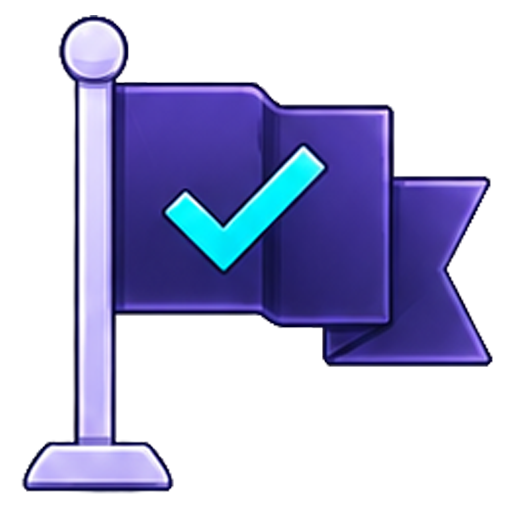
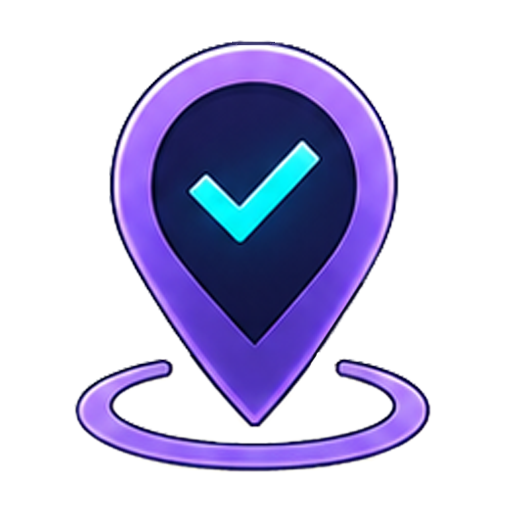
x

diff --git a/index.html b/index.html
@@ -2247,6 +2247,9 @@ body.dragging *{cursor:grabbing !important}
 .qi-daily{background-image:url('assets/ui/daily.png')}
 .qi-shop{background-image:url('assets/ui/shop.png')}
 .qi-settings{background-image:url('assets/ui/settings.png')}
+/* [TILLAGT v5.210.0] Expeditionsknappen lanade ikonen fran dagsbelöningarna -
+   samma present pa tva knappar som gor helt olika saker. Nu en egen. */
+.qi-expeditions{background-image:url('assets/ui/expeditions.png')}
 /* I snabbknapparna och emblemen får de ta mer plats än en textrad. */
 .qa-btn .ico .qi{width:33px;height:33px}
 .nav-btn .ico .qi{width:25px;height:25px}
@@ -2728,9 +2731,9 @@ body.modal-open{overflow:hidden;position:fixed;left:0;right:0;width:100%}
    blir bildens 100 % noll. Faller filen bort star emojin kvar oforandrad. */
 .rw-hex.art-wrap .art-img{width:30px;height:30px}
 .rw-hex.art-wrap.noart{font-size:22px}
-.rc-ico.art-wrap{width:16px;height:16px;display:inline-flex;align-items:center;justify-content:center;flex:0 0 auto}
-.rc-ico.art-wrap .art-img{width:16px;height:16px}
-.rc-ico.art-wrap.noart{width:auto;height:auto;font-size:14px}
+.rc-ico.art-wrap{width:20px;height:20px;display:inline-flex;align-items:center;justify-content:center;flex:0 0 auto}
+.rc-ico.art-wrap .art-img{width:20px;height:20px}
+.rc-ico.art-wrap.noart{width:auto;height:auto;font-size:18px}
 .rw-divider{
   display:flex;align-items:center;gap:10px;margin-bottom:10px;
   font-size:8px;letter-spacing:.2em;text-transform:uppercase;color:var(--text-dim);font-weight:700;
@@ -2788,7 +2791,11 @@ body.modal-open{overflow:hidden;position:fixed;left:0;right:0;width:100%}
   display:flex;align-items:center;gap:8px;
   border:1px solid var(--border-soft);border-radius:10px;padding:8px 10px;background:var(--bg-inset);
 }
-.rc-ico{font-size:14px}
+/* [ANDRAT v5.212.0] De tva ikonerna i sammanfattningen 25 % storre (Chris).
+   Chippet vaxer INTE: raden bredvid - etiketten plus talet - ar hogre an
+   ikonen bade forut och nu, sa det ar texten som satter hojden. Bade bilden
+   och emojin vaxer, annars hade det bara sett storre ut nar filerna finns. */
+.rc-ico{font-size:18px;line-height:1}
 .rc-body{display:flex;flex-direction:column;min-width:0}
 .rc-k{font-size:8px;letter-spacing:.1em;text-transform:uppercase;color:var(--text-dim);font-weight:700}
 .rc-v{font-family:var(--font-mono);font-size:12px;font-weight:800}
@@ -6118,7 +6125,7 @@ button:active:not(:disabled), .zx-btn:active:not(:disabled),
           <span id="save-status">Not saved yet</span>
         </div>
         <span id="next-save" style="display:none">0:10</span>
-        <div class="sn-ver">GENESIS v5.208.0 — HJALPAREN VISAS NAR CACHEN OPPNAS, WORK SYNC LAGAD</div>
+        <div class="sn-ver">GENESIS v5.212.0 — SAMMANFATTNINGENS TVA IKONER 25 PROCENT STORRE</div>
       </div>
     </div>
   </aside>
@@ -6239,7 +6246,7 @@ button:active:not(:disabled), .zx-btn:active:not(:disabled),
                  ocksa i vanstersp alten, men det ar den man oftast vill at
                  direkt nar nagot landat dar. Tio knappar fyller tva hela rader
                  pa fem kolumner - ingen ensam knapp pa en tredje rad. -->
-            <div class="qa-btn" id="qa-expeditions"><span class="ico"><span class="qi qi-daily"></span></span><span class="lbl">Expeditions</span><span class="notif" id="qa-exped-badge" style="display:none">0</span></div>
+            <div class="qa-btn" id="qa-expeditions"><span class="ico"><span class="qi qi-expeditions"></span></span><span class="lbl">Expeditions</span><span class="notif" id="qa-exped-badge" style="display:none">0</span></div>
             <div class="qa-btn" id="qa-inbox"><span class="ico"><span class="qi qi-inbox"></span></span><span class="lbl">Inbox</span><span class="notif" id="qa-mail-badge" style="display:none">0</span></div>
           </div>
         </div>
@@ -6917,7 +6924,7 @@ button:active:not(:disabled), .zx-btn:active:not(:disabled),
   <div class="modal-overlay" id="hrev-overlay">
     <div class="modal hrev-modal">
       <button class="modal-close hrev-x" id="hrev-close">✕</button>
-      <div class="hrev-kicker">Helper Cache</div>
+      <div class="hrev-kicker" id="hrev-kicker">Helper Cache</div>
       <div class="hrev-stage">
         <span class="hrev-flare"></span>
         <span class="hrev-flare2"></span>
@@ -7080,7 +7087,7 @@ button:active:not(:disabled), .zx-btn:active:not(:disabled),
         <div class="settings-row" data-setgrp="other">
           <div>
             <div>Version</div>
-            <div class="desc">GENESIS v5.208.0 — HJALPAREN VISAS NAR CACHEN OPPNAS, WORK SYNC LAGAD</div>
+            <div class="desc">GENESIS v5.212.0 — SAMMANFATTNINGENS TVA IKONER 25 PROCENT STORRE</div>
           </div>
         </div>
       </div>
@@ -12584,12 +12591,11 @@ const FAM_TEXT = {
   fuel:      v => '+' + v + '% fuel regen',
   cacheluck: v => '+' + v + '% cache odds',
   gearrar:   v => '+' + v + '% rarer gear drops',
-  /* [TILLAGT v5.208.0] WORK SYNC SAKNADES HELT. Servern rullar atta formagor;
-     den har raden fanns inte, sa uppslaget gav undefined och ANROPET av det
-     kastade ett fel mitt i hovringsrutan. Foljden: en hjalpare med just den
-     formagan hade varken hovringskort eller kort vid klick - resten fungerade.
-     Samma buggfamilj som en gang gjorde att INGET husdjur gick att hovra. */
-  worksync:  v => '+' + v + '% profession work speed',
+  /* [BORTTAGET v5.211.0] WORK SYNC. Den rullades ut av servern men lastes av
+     ingen enda funktion - ett tal pa kortet som inte gjorde nagonting. Chris
+     beslut: strycken ur rullningen, och de fyra som bar den rullades om. Raden
+     har ar borta i samma veva sa klienten inte kan lova nagot servern inte har.
+     Vakten i uppslaget star kvar: en okand formaga far aldrig doda kortet. */
   tokens:    v => '+' + v + '% Tokens on reboot'
 
 };
@@ -18343,16 +18349,15 @@ const HELPER_ABILITIES = {
   sellvalue: {name:'Haggler',        text: v => '+' + v + '% sell value'},
   cacheluck: {name:'Cache Instinct', text: v => '+' + v + '% cache odds'},
   gearrar:   {name:'Prospector',     text: v => '+' + v + '% rarer gear drops'},
-  /* [ANDRAT v5.6.0] Hette 'tokens' / Echo Reader och gav extra Tokens vid en
-     omstart - bada ar rivna. Servern dopte om den till Work Sync och skrev om
-     husdjurens formaga i samma andetag. FILEN GJORDE INTE DET, sa ett husdjur
-     med den nya formagan slog upp ingenting har och punkten efter kastade hela
-     sidan. Klient och server sa olika saker om samma nyckel. */
-  worksync:  {name:'Work Sync',      text: v => '+' + v + '% profession work speed'},
   /* Utgangna, men texten star kvar. En hjalpare fran en gammal sparfil - eller
      ett kort som ritas ur en cache - far annars slå upp ingenting, och punkten
      efter kastar hela sidan. Det har hant en gang. De rullas aldrig pa nytt:
-     poolen ligger pa servern och de ar borta darifran. */
+     poolen ligger pa servern och de ar borta darifran.
+     [TILLAGT v5.211.0] Work Sync hor nu hit. Den rullades ut av servern men
+     lastes av ingen funktion - ett tal som inte gjorde nagonting. Struken ur
+     rullningen pa Chris beslut, och de fyra som bar den rullades om. Texten
+     star kvar av samma skal som de tva under: den far inte fattas nagonstans. */
+  worksync:  {name:'Work Sync',      text: v => '+' + v + '% profession work speed'},
   profxp:    {name:'Apprentice',     text: v => '+' + v + '% profession XP'},
   fuel:      {name:'Coolant Flow',   text: v => '+' + v + '% fuel regen'}
 };
@@ -23598,21 +23603,58 @@ function recyclePet(uid){
 /* [TILLAGT v5.208.0] HJALPAREN VISAS PA SKARMEN. Anropas fran bada vagarna in i
    en hjalparcache: fragmentfonstret och biljetten ur vaskan. Tar hjalparen som
    hon ser ut EFTER hamtningen fran servern, sa formagan och sallsyntheten ar
-   serverns svar och inte en gissning. */
-function showHelperReveal(p){
-  if (!p) return;
-  const col = rarCol(p.rar);
+   serverns svar och inte en gissning.
+   [ANDRAT v5.209.0] Rutan ar gemensam for bada cacherna (Chris). Utrustningen
+   visades forut som ett litet kort INNE i fragmentfonstret - alltsa osynligt for
+   den som oppnade sin biljett ur vaskan. Samma ruta, samma krans, samma plats. */
+function showCacheReveal(o){
+  const col = o.col;
   const m = $('hrev-overlay').querySelector('.hrev-modal');
   if (m) m.style.setProperty('--rv', col);
+  $('hrev-kicker').textContent = o.kicker;
   const art = $('hrev-art');
-  art.setAttribute('style', petSpriteVars(p.sp, 88) +
+  art.setAttribute('style',
+    (o.art ? '--pi:url(\'' + o.art + '\');' : '') +
+    'width:88px;height:88px;font-size:36px' +
     ';border-color:' + col + ';box-shadow:0 0 22px -6px ' + col);
-  art.textContent = (PETS[p.sp] && PETS[p.sp].name[0]) || '?';
-  $('hrev-name').textContent = petName(p);
+  art.textContent = o.art ? '' : (o.letter || '?');
+  $('hrev-name').textContent = o.name;
   $('hrev-name').style.color = col;
-  $('hrev-rar').textContent = RARITIES[p.rar].name;
-  $('hrev-eff').innerHTML = petEffLines(p).map(t => '<div>' + t + '</div>').join('');
+  $('hrev-rar').textContent = o.sub;
+  $('hrev-eff').innerHTML = (o.lines || []).map(t => '<div>' + t + '</div>').join('');
   $('hrev-overlay').classList.add('open');
+}
+function showHelperReveal(p){
+  if (!p) return;
+  showCacheReveal({
+    kicker: 'Helper Cache',
+    col:    rarCol(p.rar),
+    art:    petArt(p.sp),
+    letter: (PETS[p.sp] && PETS[p.sp].name[0]) || '?',
+    name:   petName(p),
+    sub:    RARITIES[p.rar].name,
+    lines:  petEffLines(p)
+  });
+}
+/* [TILLAGT v5.209.0] Samma ruta for utrustningscachen. Pjasen ligger redan i
+   vaskan nar rutan visas - raden under sager det, sa ingen letar efter en knapp
+   som inte finns. */
+function showGearReveal(r){
+  if (!r) return false;
+  const D = ITEMS[r.item_key];
+  if (!D) return false;
+  const rar = r.rarity | 0;
+  const R = GEAR_RAR[rar];
+  showCacheReveal({
+    kicker: 'Gear Cache',
+    col:    rarCol(rar),
+    art:    itemArtFor(r.item_key, rar),
+    letter: D.name[0],
+    name:   D.name,
+    sub:    (R ? R.name : '') + (GEAR_SLOTS[D.slot] ? ' \u00b7 ' + GEAR_SLOTS[D.slot].name : ''),
+    lines:  ['Sent to your backpack']
+  });
+  return true;
 }
 function closeHelperReveal(){ $('hrev-overlay').classList.remove('open'); }
 /* Hjalparen hittas pa serverns id efter hamtningen - det ar det enda som binder
@@ -23710,6 +23752,9 @@ function openGearCache(){
       if (!r) return;
       const D = ITEMS[r.item_key], R = GEAR_RAR[r.rarity | 0];
       if (!D) return;
+      /* [TILLAGT v5.209.0] Samma ruta mitt pa skarmen som hjalparcachen. Kortet
+         inne i fonstret star kvar som kvitto for den som redan star dar. */
+      showGearReveal(r);
       $('frag-reveal').innerHTML =
         '<div class="rv-card" style="--rv-col:' + rarCol(r.rarity | 0) + '">' +
         '<span class="vg-art" style="background-image:url(\'' + itemArtFor(r.item_key, r.rarity | 0) + '\')"></span>' +
@@ -29198,8 +29243,12 @@ function useCacheTicket(key){
       .then(async r => {
         if (gear){
           await netPullItems();
-          const D = ITEMS[r && r.item_key], R = GEAR_RAR[(r && r.rarity) | 0];
-          spawnFloat({text: 'Gear cache: ' + (D ? D.name : 'a piece of gear') + (R ? ' (' + R.name + ')' : '')});
+          /* [ANDRAT v5.209.0] Biljetten visar samma ruta som fragmentfonstret.
+             Den flytande raden hann forsvinna och sa inget om vad pjasen var. */
+          if (!showGearReveal(r)){
+            const D = ITEMS[r && r.item_key], R = GEAR_RAR[(r && r.rarity) | 0];
+            spawnFloat({text: 'Gear cache: ' + (D ? D.name : 'a piece of gear') + (R ? ' (' + R.name + ')' : '')});
+          }
         } else {
           await netPullPets(); renderPets(); renderPetPanel();
           /* [ANDRAT v5.208.0] Biljetten visar samma ruta som fragmentfonstret.
